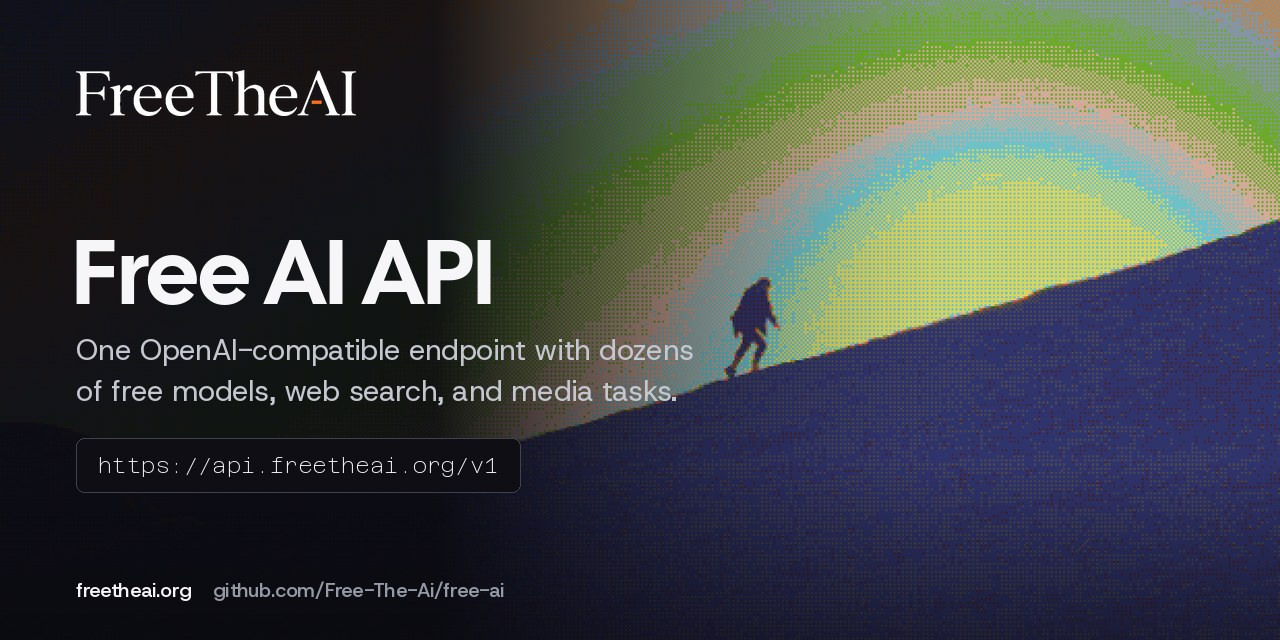
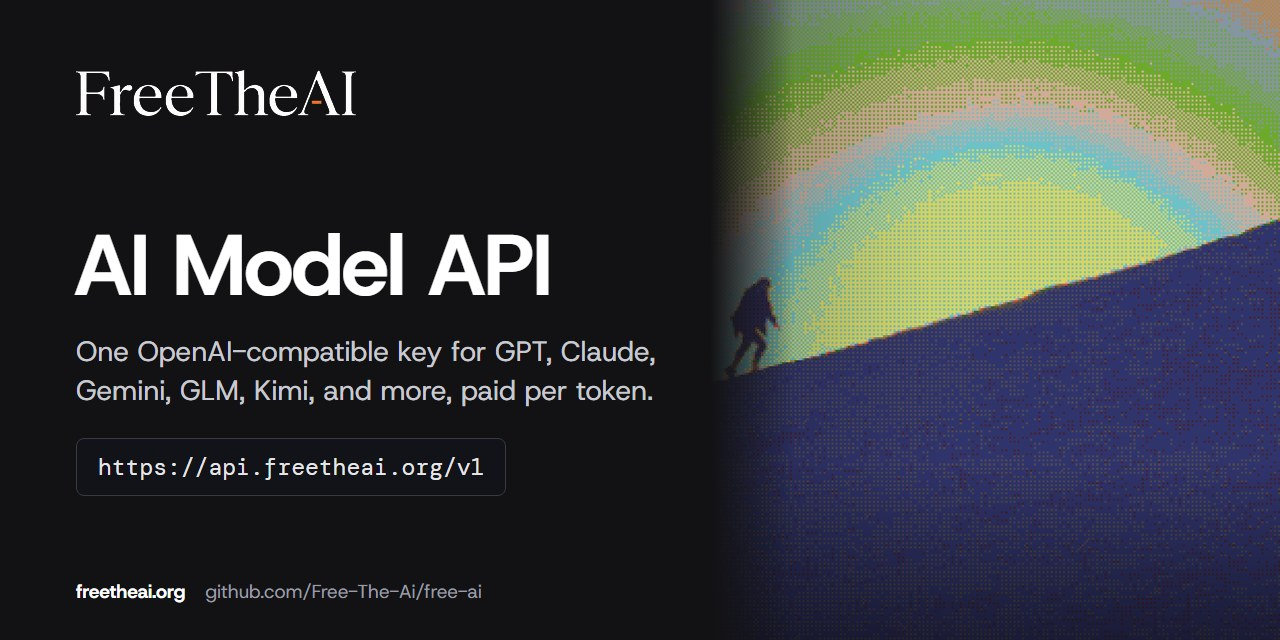
Describe the paid marketplace instead of the closed free tier

diff --git a/examples/python/openai_tool_calling.py b/examples/python/openai_tool_calling.py
@@ -73,7 +73,7 @@ def main() -> None:
     ]
 
     first = client.chat.completions.create(
-        model="fta/zai/glm-5.3",
+        model="glm-5.3",
         messages=messages,
         tools=TOOLS,
         tool_choice="auto",
@@ -98,7 +98,7 @@ def main() -> None:
             )
 
     final = client.chat.completions.create(
-        model="fta/zai/glm-5.3",
+        model="glm-5.3",
         messages=messages,
         max_tokens=256,
     )

diff --git a/examples/python/litellm_basic.py b/examples/python/litellm_basic.py
@@ -27,7 +27,7 @@ def main() -> None:
         raise RuntimeError("Set FREETHEAI_API_KEY before running this example.")
 
     response = completion(
-        model="openai/fta/zai/glm-5.3",
+        model="openai/glm-5.3",
         messages=[{"role": "user", "content": "Reply with exactly: OK"}],
         api_key=key,
         api_base="https://api.freetheai.org/v1",

diff --git a/examples/python/openai_chat.py b/examples/python/openai_chat.py
@@ -32,7 +32,7 @@ def main() -> None:
     """
     client = get_client()
     response = client.chat.completions.create(
-        model="fta/zai/glm-5.3",
+        model="glm-5.3",
         messages=[
             {"role": "system", "content": "You are a concise developer assistant."},
             {"role": "user", "content": "Reply with exactly: OK"},

diff --git a/examples/python/llamaindex_chat.py b/examples/python/llamaindex_chat.py
@@ -28,7 +28,7 @@ def main() -> None:
         raise RuntimeError("Set FREETHEAI_API_KEY before running this example.")
 
     llm = OpenAILike(
-        model="fta/zai/glm-5.3",
+        model="glm-5.3",
         api_key=key,
         api_base="https://api.freetheai.org/v1",
         is_chat_model=True,

diff --git a/examples/python/langchain_chat.py b/examples/python/langchain_chat.py
@@ -27,7 +27,7 @@ def main() -> None:
         raise RuntimeError("Set FREETHEAI_API_KEY before running this example.")
 
     llm = ChatOpenAI(
-        model="fta/zai/glm-5.3",
+        model="glm-5.3",
         api_key=key,
         base_url="https://api.freetheai.org/v1",
         max_tokens=128,

diff --git a/examples/python/openai_streaming.py b/examples/python/openai_streaming.py
@@ -34,7 +34,7 @@ def main() -> None:
     """
     client = get_client()
     with client.chat.completions.stream(
-        model="fta/bbl/gpt-5.4-mini",
+        model="glm-5.3",
         messages=[
             {"role": "user", "content": "Stream a haiku about pair programming."},
         ],

diff --git a/SKILL.md b/SKILL.md
@@ -1,16 +1,16 @@
 ---
 name: freetheai-api
-description: Help AI agents connect apps, SDKs, coding tools, and chat clients to FreeTheAI, the free OpenAI-compatible API at https://api.freetheai.org/v1. Use this skill when a user wants a free AI API key, a custom OpenAI base URL, setup help for an AI client, or examples for chat, streaming, and tool calling.
+description: Help AI agents connect apps, SDKs, coding tools, and chat clients to FreeTheAI, an AI model marketplace with one OpenAI-compatible API at https://api.freetheai.org/v1, paid per token. Use this skill when a user wants a FreeTheAI API key, a custom OpenAI base URL, setup help for an AI client, or examples for chat, streaming, and tool calling.
 ---
 
 # FreeTheAI API Skill
 
-Use this skill to set up FreeTheAI for a user or another AI agent. FreeTheAI is an OpenAI-compatible API with one account, one key, and 50+ models.
+Use this skill to set up FreeTheAI for a user or another AI agent. FreeTheAI is an AI model marketplace with one OpenAI-compatible API: one account and one key reach models from many providers, paid per token from one wallet at each provider's listed price.
 
 ## Trigger this skill when
 
 - The user mentions FreeTheAI, Free The AI, freetheai.org, freetheai.xyz, `api.freetheai.org`, or `api.freetheai.xyz`.
-- The user asks for a free OpenAI-compatible API.
+- The user asks for one OpenAI-compatible API for models from several providers.
 - The user wants to point the OpenAI SDK, LiteLLM, LangChain, LlamaIndex, the Vercel AI SDK, Cline, Roo Code, Continue, Aider, OpenCode, SillyTavern, JanitorAI, chub.ai, RisuAI, LibreChat, Open WebUI, or another client at a custom endpoint.
 - The user asks which FreeTheAI model to use.
 
@@ -21,7 +21,7 @@ Use this skill to set up FreeTheAI for a user or another AI agent. FreeTheAI is 
 - Website: `https://freetheai.org`
 - Sign up: `https://freetheai.org/signup`
 - API keys: `https://freetheai.org/dashboard/api-keys`
-- Daily check-in: `https://freetheai.org/checkin`
+- Providers: `https://freetheai.org/providers`
 - Models: `https://freetheai.org/models`
 - Docs: `https://freetheai.org/docs`
 - Discord: `https://discord.gg/secrets`
@@ -30,25 +30,23 @@ Use this skill to set up FreeTheAI for a user or another AI agent. FreeTheAI is 
 
 1. Send the user to `https://freetheai.org/signup`. They sign up with a Gmail, Outlook, Yahoo, or iCloud address, pass the security check, then confirm their email from the link FreeTheAI sends.
 2. Have them create an API key under API keys in the dashboard.
-3. Have them do the daily check-in at `https://freetheai.org/checkin`. Free models answer 403 "Daily check-in required" until they do; the check-in lasts until 00:00 UTC.
+3. Have them add funds to their wallet (from $5, crypto or card) and follow at least one provider at `https://freetheai.org/providers`. A key only uses the providers its account follows; a paid request with no money answers 402.
 4. Ask for the key only if you must write it into the user's own client config. Prefer an environment variable such as `FREETHEAI_API_KEY`.
 5. Configure the client with the base URL and auth header above.
-6. Pick a model ID from `GET /v1/models` or the models page. IDs look like `fta/<tag>/<model>`, for example `fta/zai/glm-5.3` or `fta/bbl/gpt-5.4-mini`.
+6. Pick a model ID from `GET /v1/models` or the models page. A model ID is the model name, for example `glm-5.3`; `<provider>/<model>` picks one provider.
 
 ## Rules
 
 - Never invent keys, endpoints, model IDs, or limits. Use only what `GET /v1/models`, the models page, or the docs show.
 - The old API at `api.freetheai.xyz` is retired. Old keys and the Discord `/signup` and `/checkin` commands no longer work; move the user to freetheai.org.
-- Use Chat Completions (`POST /v1/chat/completions`) for free models. It supports streaming and tool calling.
+- Chat Completions (`POST /v1/chat/completions`), Responses, and Anthropic Messages are supported, with streaming and tool calls. Claude Code and the Anthropic SDK use the base URL `https://api.freetheai.org`.
 - Call the API directly from the user's app or device. Requests relayed through a Cloudflare Worker are refused with 403 `relay_not_supported`.
-- Do not try to bypass the check-in, rate limits, or security checks.
+- Do not try to bypass rate limits or security checks.
 
-## Free tier
+## Pricing
 
-- 50 requests a day on FreeTheAI-hosted models; failed requests don't count. Resets at 00:00 UTC.
-- +50 a day for linking Discord (dashboard Settings → Link Discord; this also joins the FreeTheAI Discord server).
-- Up to +150 a day for donating spare API keys at `https://freetheai.org/dashboard/donate-keys`.
-- Paid plans and the model marketplace are coming soon.
+- Requests are paid from the FreeTheAI wallet: each one bills the tokens it used at the listed price. Wallets take $5 or more, by crypto or card. No subscription.
+- The free tier closed for most accounts on November 10, 2026 (`https://freetheai.org/blog/free-tier-closing`). Do not promise free access.
 
 ## Client setup
 
@@ -60,7 +58,7 @@ import os
 
 client = OpenAI(base_url="https://api.freetheai.org/v1", api_key=os.environ["FREETHEAI_API_KEY"])
 reply = client.chat.completions.create(
-    model="fta/zai/glm-5.3",
+    model="glm-5.3",
     messages=[{"role": "user", "content": "Hello!"}],
 )
 print(reply.choices[0].message.content)
@@ -73,7 +71,7 @@ import OpenAI from "openai";
 
 const client = new OpenAI({ baseURL: "https://api.freetheai.org/v1", apiKey: process.env.FREETHEAI_API_KEY });
 const reply = await client.chat.completions.create({
-  model: "fta/zai/glm-5.3",
+  model: "glm-5.3",
   messages: [{ role: "user", content: "Hello!" }],
 });
 console.log(reply.choices[0].message.content);
@@ -81,16 +79,17 @@ console.log(reply.choices[0].message.content);
 
 Chat apps (SillyTavern, JanitorAI, chub.ai, RisuAI, Open WebUI, LibreChat): choose the OpenAI-compatible or custom endpoint option, set the base URL to `https://api.freetheai.org/v1` (some apps want the full `https://api.freetheai.org/v1/chat/completions`), paste the key, and pick a model ID.
 
-Coding tools (Cline, Roo Code, Continue, Aider, OpenCode): use the OpenAI-compatible provider with the same base URL, key, and a model ID. LiteLLM routes it as `openai/fta/zai/glm-5.3`.
+Coding tools (Cline, Roo Code, Continue, Aider, OpenCode): use the OpenAI-compatible provider with the same base URL, key, and a model ID. LiteLLM routes it as `openai/glm-5.3`.
 
 ## Common errors
 
 | Status | Meaning | What to do |
 | :--- | :--- | :--- |
 | 401 | Missing or wrong key | Check the key and the `Bearer` prefix. |
-| 403 | Email not confirmed, check-in missing, key limits, or a relayed request | Confirm the email, do the check-in, check the key's limits, or call directly. |
+| 402 | Not enough money in the wallet | Add funds on the dashboard. |
+| 403 | Email not confirmed, provider not followed, key limits, or a relayed request | Confirm the email, follow a provider that serves the model, check the key's limits, or call directly. |
 | 404 | Unknown model ID | Use an ID from `GET /v1/models`. |
-| 429 | Daily limit or too many requests at once | Wait for the reset or for a running request to finish. |
+| 429 | Too many requests at once | Wait for a running request to finish. |
 | 502 or 503 | Upstream trouble | Retry or pick another model. Quote the error ID if it keeps happening. |
 
 Full list: `https://freetheai.org/docs`.

diff --git a/README.md b/README.md
@@ -1,11 +1,11 @@
 <p align="center">
-  <a href="https://freetheai.org"><img src=".github/banner.jpg" alt="FreeTheAI: free OpenAI-compatible AI API" width="100%"></a>
+  <a href="https://freetheai.org"><img src=".github/banner.jpg" alt="FreeTheAI: one OpenAI-compatible API for models from many providers, paid per token" width="100%"></a>
 </p>
 
 <p align="center">
   <a href="https://freetheai.org"><img src="https://img.shields.io/badge/website-freetheai.org-111111" alt="Website"></a>
   <a href="https://freetheai.org/docs"><img src="https://img.shields.io/badge/API-OpenAI--compatible-111111" alt="OpenAI-compatible"></a>
-  <a href="https://freetheai.org/models"><img src="https://img.shields.io/badge/models-50%2B-111111" alt="50+ models"></a>
+  <a href="https://freetheai.org/models"><img src="https://img.shields.io/badge/models-many_providers-111111" alt="Models from many providers"></a>
   <a href="LICENSE"><img src="https://img.shields.io/badge/license-MIT-111111" alt="MIT license"></a>
   <a href="https://discord.gg/secrets"><img src="https://img.shields.io/badge/Discord-join-5865F2?logo=discord&logoColor=white" alt="Discord"></a>
 </p>
@@ -14,14 +14,17 @@
   <b><a href="https://freetheai.org/docs">Docs</a></b> ·
   <a href="https://freetheai.org/setup">Setup guides</a> ·
   <a href="https://freetheai.org/models">Models</a> ·
-  <a href="https://freetheai.org/checkin">Daily check-in</a> ·
+  <a href="https://freetheai.org/providers">Providers</a> ·
   <a href="https://freetheai.org/status">Status</a> ·
   <a href="https://discord.gg/secrets">Discord</a>
 </p>
 
 # FreeTheAI
 
-FreeTheAI is a free, OpenAI-compatible AI API. One key and one base URL give you dozens of chat models with streaming, tool calling, web search with sourced answers, and image and video generation. Also searched as *Free The AI*, *Free The Ai*, and *FreeTheAi*.
+FreeTheAI is an AI model marketplace with one OpenAI-compatible API. One account and one API key reach models from many providers, including GPT, Claude, Gemini, Grok, GLM, Kimi, and MiniMax, paid per token from one wallet at each provider's listed price. Streaming, tool calling, and web search with sourced answers work across them. Also searched as *Free The AI*, *Free The Ai*, and *FreeTheAi*.
+
+> [!NOTE]
+> The free tier closed for most accounts on November 10, 2026. Read [why it closed](https://freetheai.org/blog/free-tier-closing). Requests are now paid from your wallet.
 
 > [!IMPORTANT]
 > FreeTheAI moved to [freetheai.org](https://freetheai.org). The old API at `api.freetheai.xyz`, its keys, and the old Discord `/signup` and `/checkin` commands no longer work. Use the base URL `https://api.freetheai.org/v1` with a key from freetheai.org. Old `freetheai.xyz` links forward to their new pages.
@@ -29,20 +32,21 @@ FreeTheAI is a free, OpenAI-compatible AI API. One key and one base URL give you
 ## Quick start
 
 1. Create an account at [freetheai.org](https://freetheai.org), confirm your email, and make a key under [API keys](https://freetheai.org/dashboard/api-keys).
-2. Do the [daily check-in](https://freetheai.org/checkin) once a day to unlock the free models until 00:00 UTC.
-3. Point your app at the base URL.
+2. Add funds to your wallet (from $5, crypto or card). Each request bills the tokens it used at the listed price; there is no subscription.
+3. Follow a provider on its page at [freetheai.org/providers](https://freetheai.org/providers). A key uses the providers its account follows.
+4. Point your app at the base URL.
 
 ```
 Base URL    https://api.freetheai.org/v1
 Auth        Authorization: Bearer YOUR_API_KEY
-Model IDs   fta/<provider>/<model>, for example fta/zai/glm-5.3
+Model IDs   the model name, for example glm-5.3; <provider>/<model> picks one provider
 ```
 
 ```bash
 curl https://api.freetheai.org/v1/chat/completions \
   -H "Authorization: Bearer $FREETHEAI_API_KEY" \
   -H "Content-Type: application/json" \
-  -d '{"model": "fta/zai/glm-5.3", "messages": [{"role": "user", "content": "Hello!"}]}'
+  -d '{"model": "glm-5.3", "messages": [{"role": "user", "content": "Hello!"}]}'
 ```
 
 ```python
@@ -50,13 +54,13 @@ from openai import OpenAI
 
 client = OpenAI(base_url="https://api.freetheai.org/v1", api_key="YOUR_API_KEY")
 reply = client.chat.completions.create(
-    model="fta/zai/glm-5.3",
+    model="glm-5.3",
     messages=[{"role": "user", "content": "Hello!"}],
 )
 print(reply.choices[0].message.content)
 ```
 
-Chat completions support streaming, tool calling, and the usual sampling settings. List the models your key can use with `GET /v1/models`. Every error carries an error ID (in the body and the `X-Error-ID` header); quote it when you ask for help.
+Chat Completions, Responses, and Anthropic Messages are supported, with streaming and tool calls. Claude Code and the Anthropic SDK use the base URL `https://api.freetheai.org`. List the models your key can use with `GET /v1/models`. Every error carries an error ID (in the body and the `X-Error-ID` header); quote it when you ask for help.
 
 ## SDKs and examples
 
@@ -69,22 +73,15 @@ Chat completions support streaming, tool calling, and the usual sampling setting
 
 Code you can copy is in [`examples/`](examples/README.md).
 
-## Free tier
+## Pricing
 
-- **50 requests a day** on the free models. The count resets at 00:00 UTC, and failed requests don't count.
-- Free models need the **daily check-in** at [freetheai.org/checkin](https://freetheai.org/checkin).
-- Paid plans are coming soon.
+- Add funds to one FreeTheAI wallet, from $5, with crypto or a card.
+- Each request bills the tokens it used at the provider's listed price. Prices for every provider are on the [models page](https://freetheai.org/models).
+- No subscription, and no daily limit to wait out.
 
 ## Models
 
-The live list, with context sizes, is at [freetheai.org/models](https://freetheai.org/models). Model IDs start with a short tag:
-
-| Prefix | What it holds |
-| :--- | :--- |
-| `fta/zai/*` | GLM models, including `glm-5.3` and `glm-5.3-flash` |
-| `fta/kimi/*` | Kimi K3 |
-| `fta/mmx/*` | MiniMax M3 |
-| `fta/bbl/*`, `fta/vbk/*`, `fta/olm/*`, `fta/olf/*`, `fta/kai/*`, `fta/ocz/*` | Chat, reasoning, and open-weight models, some with free tiers |
+The live list, with prices, context sizes, and every provider that serves each model, is at [freetheai.org/models](https://freetheai.org/models). A model ID is the model name, for example `glm-5.3`, and by default the request goes to the cheapest provider you follow. Write `<provider>/<model>` to pick one provider.
 
 ## Apps and setup guides
 

diff --git a/examples/README.md b/examples/README.md
@@ -6,16 +6,16 @@ key from the `FREETHEAI_API_KEY` environment variable and points at
 
 Get a key first:
 
-1. Create a free account at [freetheai.org/signup](https://freetheai.org/signup) and confirm your email.
+1. Create an account at [freetheai.org/signup](https://freetheai.org/signup) and confirm your email.
 2. Create a key under [API keys](https://freetheai.org/dashboard/api-keys) in your dashboard.
-3. Do the daily [check-in](https://freetheai.org/checkin) to unlock free models until 00:00 UTC.
+3. Add funds to your wallet (from $5, crypto or card) and follow a provider at [freetheai.org/providers](https://freetheai.org/providers). Requests bill the tokens they use at the listed price.
 
 ```bash
 export FREETHEAI_API_KEY=your_key_here
 ```
 
-Model IDs look like `fta/<tag>/<model>`. The examples use `fta/zai/glm-5.3` and
-`fta/bbl/gpt-5.4-mini`; the full list is on the
+A model ID is the model name; the examples use `glm-5.3`. Write
+`<provider>/<model>` to pick one provider. The full list, with prices, is on the
 [models page](https://freetheai.org/models) or from `GET /v1/models`.
 
 ## Python (`examples/python`)
